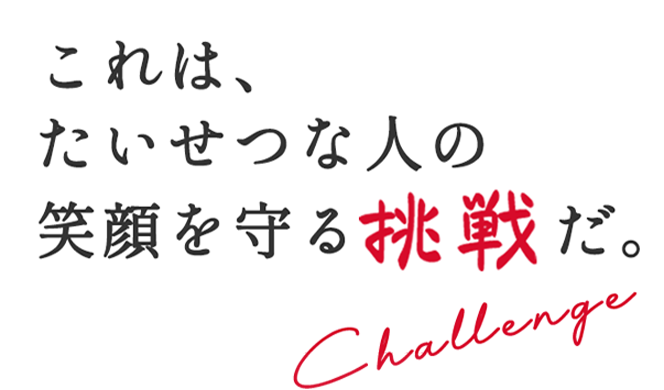
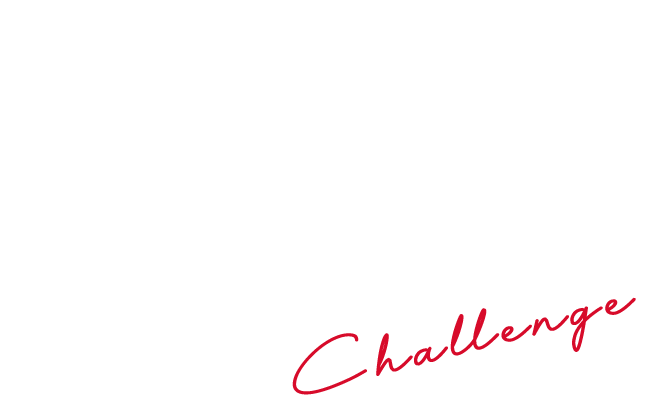
2022-0201

diff --git a/css/recruit.css b/css/recruit.css
@@ -94,6 +94,50 @@ a {
     width: 100%;
 }
 
+.recruit_challenge_top_imgcont02_sp .recruit_challenge_message {
+    width: 20%;
+    vertical-align: sub;
+}
+
+@media (min-width:750px) {
+    .recruit_challenge_top_imgcont02 .recruit_challenge_message {
+        width: 25%;
+        vertical-align: sub;
+    }
+}
+
+@media (min-width:750px) {
+    .recruit_challenge_top_imgcont02 span {
+        width: 97%;
+        position: absolute;
+        top: 3%;
+        left: 3%;
+        font-size: 4.5vw;
+        font-size:max(4.5vw);
+        font-family: 'Shippori Mincho', serif;
+        color: rgb(51, 51, 51);
+        line-height: 1.308;
+        text-align: left;
+        vertical-align: sub;
+        letter-spacing: 1.8px;
+    }
+}
+
+.recruit_challenge_top_imgcont02_sp span {
+    width: 100%;
+    position: absolute;
+    top: 101%;
+    left: 4%;
+    font-size: 8.5vw;
+    font-size:max(8.5vw);
+    font-family: 'Shippori Mincho', serif;
+    color: rgb(51, 51, 51);
+    line-height: 1.308;
+    text-align: left;
+    vertical-align: sub;
+    letter-spacing: 5px;
+}
+
 .recruit_challenge_top_imgcont03 {
     display: none;
 }
@@ -104,7 +148,7 @@ a {
         width: 36%;
         float: right;
         position: absolute;
-        top: 46.9%;
+        top: 46%;
         right: 0;
     }
 }
@@ -112,6 +156,7 @@ a {
 .recruit_challenge_top_imgcont03 img {
     width: 100%;
 }
+
 
 .recruit_challenge_top_imgcont03_sp {
     display: block;
@@ -377,7 +422,25 @@ a {
 @media (min-width:750px) {
     .recruit_personality_maincont {
         max-width: 1020px;
-        width: 72.86%;
+        width: 700px;
+        margin: auto;
+        position: relative;
+    }
+}
+
+@media (min-width:910px) {
+    .recruit_personality_maincont {
+        max-width: 1020px;
+        width: 850px;
+        margin: auto;
+        position: relative;
+    }
+}
+
+@media (min-width:1100px) {
+    .recruit_personality_maincont {
+        max-width: 1020px;
+        width: 1020px;
         margin: auto;
         position: relative;
     }
@@ -668,12 +731,25 @@ a {
 @media (min-width:750px) {
     .recuit_pharmacist_main {
         max-width: 1020px;
-        width: 72.85%;
+        width: 700px;
         display: flex;
         flex-direction: row-reverse;
         margin-bottom: 30px;
     }
 }
+
+@media (min-width:910px) {
+    .recuit_pharmacist_main {
+        width: 850px;
+    }
+}
+
+@media (min-width:1100px) {
+    .recuit_pharmacist_main {
+        width: 1020px;
+    }
+}
+
 
 .recuit_pharmacist_main_img {
     width: 100%;
@@ -775,16 +851,28 @@ a {
     .recuit_pharmacist_main_interview {
         display: flex;
         max-width: 1020px;
-        width: 72.85%;
+        width: 680px;
         justify-content: space-between;
         padding-left: 10%;
+    }
+}
+
+@media (min-width:910px) {
+    .recuit_pharmacist_main_interview {
+        width: 820px;
+    }
+}
+
+@media (min-width:1150px) {
+    .recuit_pharmacist_main_interview {
+        width: 1020px;
     }
 }
 
 .recuit_pharmacist_main_interview_title {
     transform: rotate(90deg);
     position: absolute;
-    left: -25%;
+    left: -20%;
     top: 10%;
 }
 
@@ -877,11 +965,8 @@ a {
 
 @media (min-width:1000px) {
     .recuit_pharmacist_main_interview_maincont_01, .recuit_pharmacist_main_interview_maincont_02, .recuit_pharmacist_main_interview_maincont_03 P {
-        color: #fff;
         font-size: 14px;
-        font-family: "Yu Gothic";
         line-height: 24px;
-        font-weight: bold;
     }
 }
 
@@ -913,13 +998,22 @@ a {
 
 @media (min-width:750px) {
     .occupation {
-        width: 110px;
+        width: 100px;
         height: 23px;
+        top: 50%;
+        left: 3%;
+    }
+}
+
+@media (min-width:1100px) {
+    .occupation {
+        width: 120px;
+        height: 24px;
         top: 55%;
     }
 }
 
-@media (min-width:1000px) {
+@media (min-width:1300px) {
     .occupation {
         width: 120px;
         height: 24px;
@@ -954,17 +1048,23 @@ a {
 
 @media (min-width:750px) {
     .name {
-        width: 180px;
+        width: 160px;
         height: 23px;
-        top: 65%;
-        left: 7%;
+        top: 60%;
+        left: 3%;
     }
 }
 
-@media (min-width:1000px) {
+@media (min-width:1100px) {
     .name {
         width: 200px;
         height: 24px;
+        top: 65%;
+    }
+}
+
+@media (min-width:1300px) {
+    .name {
         top: 75%;
     }
 }
@@ -982,6 +1082,14 @@ a {
 }
 
 @media (min-width:750px) {
+    .recuit_pharmacist_main_interview_maincont_catchcopy p {
+        font-size: 16px;
+        font-family: "Yu Gothic";
+        line-height: 1.5;
+    }
+}
+
+@media (min-width:910px) {
     .recuit_pharmacist_main_interview_maincont_catchcopy p {
         font-size: 18px;
         font-family: "Yu Gothic";
@@ -1059,15 +1167,34 @@ a {
 @media (min-width:750px) {
     .recruit_welfare_main {
         max-width: 1020px;
-        width: 72.85%;
+        width: 700px;
         display: flex;
         justify-content: space-between;
-        margin-bottom: 30px;
+        margin: 0 auto 30px;
+    }
+}
+
+@media (min-width:910px) {
+    .recruit_welfare_main {
+        width: 850px;
+    }
+}
+
+@media (min-width:1100px) {
+    .recruit_welfare_main {
+        width: 1020px;
     }
 }
 
 .recruit_welfare_main_block {
-    width: 32.35%;
+    width: 92%;
+    margin: 0 auto;
+}
+
+@media (min-width:750px) {
+    .recruit_welfare_main_block {
+        width: 32.35%;
+    }
 }
 
 .recruit_welfare_main_block img {
@@ -1076,13 +1203,19 @@ a {
 }
 
 .recruit_welfare_main_block p {
-    font-size: 14px;
+    font-size: 3.74vw;
     font-family: "Yu Gothic";
     color: rgb(51, 51, 51);
-    font-weight: bold;
-    line-height: 2.143;
+    line-height: 1.7;
     text-align: left;
     letter-spacing: 0.8px;
+}
+
+@media (min-width:750px) {
+    .recruit_welfare_main_block p {
+        font-size: 13px;
+        font-weight: bold;
+    }
 }
 
 

diff --git a/recruit.html b/recruit.html
@@ -10,6 +10,10 @@
   <link rel="stylesheet" href="css/common.css">
   <link rel="stylesheet" href="css/recruit.css">
   <link rel="stylesheet" href="css/top.css">
+  <link rel="preconnect" href="https://fonts.googleapis.com">
+  <link rel="preconnect" href="https://fonts.gstatic.com" crossorigin>
+  <link href="https://fonts.googleapis.com/css2?family=Shippori+Mincho:wght@500;600;700;800&display=swap" rel="stylesheet">
+  
 
   <title>recruit</title>
 
@@ -100,14 +104,20 @@
       <ul class="recruit_challenge_top_imgcont01_sp">
         <li><img src="image/recruit/challenge01_sp.png" alt=""></li>
       </ul>
-      <ul class="recruit_challenge_top_imgcont02">
-        <li><img src="image/recruit/challenge02.png" alt=""></li>
-      </ul>
-      <ul class="recruit_challenge_top_imgcont02_sp">
-        <li><img src="image/recruit/challenge02_sp.png" alt=""></li>
-      </ul>
+      <div class="recruit_challenge_top_imgcont02">
+        <img src="image/recruit/challenge02.png" alt="">
+        <p><span>これは、<br>
+        たいせつな人の<br>
+        笑顔を守る<img class="recruit_challenge_message" src="image/recruit/challenge_message.png" alt="">だ。</span></p>
+      </div>
+      <div class="recruit_challenge_top_imgcont02_sp">
+        <img src="image/recruit/challenge02_sp.png" alt="">
+        <p><span>これは、<br>
+          たいせつな人の<br>
+          笑顔を守る<img class="recruit_challenge_message" src="image/recruit/challenge_message.png" alt="">だ。</span></p>
+          </div>
       <ul class="recruit_challenge_top_imgcont03">
-        <li><img src="image/recruit/challenge03.png" alt=""></li>
+        <li></li><img src="image/recruit/challenge03.png" alt=""></li>
       </ul>
       <ul class="recruit_challenge_top_imgcont03_sp">
         <li><img src="image/recruit/challenge03_sp.png" alt=""></li>
